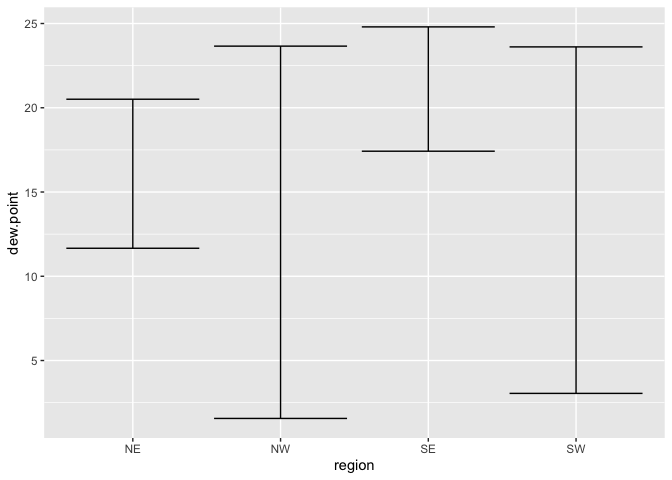
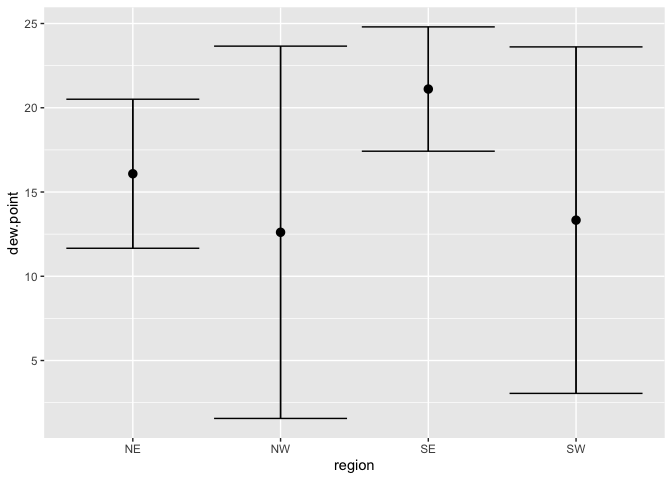
update stat_summary() figure

diff --git a/lab04/README.md b/lab04/README.md
@@ -205,13 +205,14 @@ Comment on these results.
 ``` r
  met_avg[!is.na(dew.point)] %>%
   ggplot(mapping = aes(x = region, y = dew.point)) + 
-    stat_summary(fun.data = mean_sdl, 
-                 geom = "errorbar")
+    stat_summary(fun.data = mean_sdl, geom = "pointrange") +
+    stat_summary(fun.data = mean_sdl, geom = "errorbar") 
 ```
 
 ![](README_files/figure-gfm/unnamed-chunk-4-1.png)<!-- -->
 
-I can show with means or with error bars, but I’d like to show both!
+To show means and error bars on the same plot, use two + stat_summary()
+commands!
 
 \##7. Generate a map of weather stations and show trend in relative
 humidity of top 10
@@ -238,8 +239,8 @@ rh.pal
     ##     }
     ##     pf(rescaled)
     ## }
-    ## <bytecode: 0x7f975f562c40>
-    ## <environment: 0x7f975f4aa8e8>
+    ## <bytecode: 0x7fa854545b30>
+    ## <environment: 0x7fa8545432a8>
     ## attr(,"colorType")
     ## [1] "numeric"
     ## attr(,"colorArgs")
@@ -256,6 +257,10 @@ top10rh <- met_avg[ rank(-rh) <= 10]
 ``` r
 #met_avg[ order(-rh)][1:10]
 ```
+
+Here I can use top10rh data subset to show just the weather stations
+that registered the top 10 relative humidity values in the 1st week of
+August. For now I’ll show all:
 
 ``` r
 rhmap <- leaflet(met_avg) %>% 
